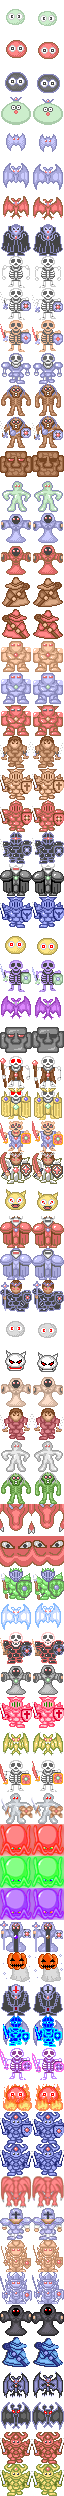
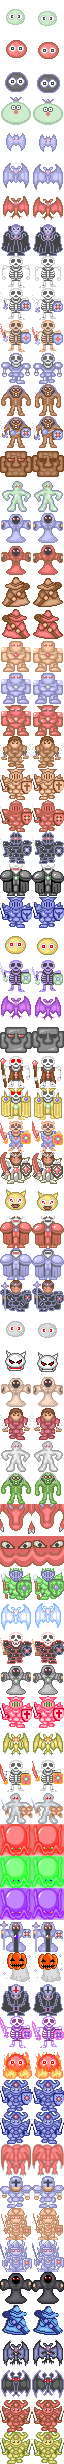
delete E603 because same as E767

diff --git a/project/enemys.js b/project/enemys.js
@@ -64,7 +64,6 @@ var enemys_fcae963b_31c9_42b4_b48c_bb48d09f3f80 =
 	"E553": {"name":"起源施咒者","hp":1500,"atk":550,"def":300,"money":30,"exp":25,"point":0,"special":[2,28]},
 	"E558": {"name":"彷徨幽鬼","hp":700,"atk":180,"def":100,"money":5,"exp":5,"point":0,"special":[2,22],"value":null,"damage":200},
 	"E572": {"name":"鬼奴","hp":800,"atk":300,"def":80,"money":0,"exp":40,"point":0,"special":[]},
-	"E603": {"name":"魔导重铠堡垒","hp":999,"atk":200,"def":500,"money":25,"exp":20,"point":0,"special":[2,8]},
 	"E679": {"name":"追魂","hp":1500,"atk":500,"def":100,"money":0,"exp":60,"point":0,"special":[2]},
 	"E737": {"name":"地狱史莱姆","hp":1000,"atk":999,"def":0,"money":30,"exp":25,"point":0,"special":[17,28]},
 	"E763": {"name":"魔导神磐堡垒","hp":20,"atk":200,"def":735,"money":25,"exp":20,"point":0,"special":[2,3]},

diff --git a/project/icons.js b/project/icons.js
@@ -144,21 +144,20 @@ var icons_4665ee12_3a1f_44a4_bea3_0fccba634dc1 =
 		"E553": 60,
 		"E558": 61,
 		"E572": 62,
-		"E603": 63,
-		"E679": 64,
-		"E737": 65,
-		"E763": 66,
-		"E767": 67,
-		"E861": 68,
-		"E874": 69,
-		"E887": 70,
-		"E888": 71,
-		"E956": 72,
-		"E1078": 73,
-		"E1133": 74,
-		"E1141": 75,
-		"E1167": 76,
-		"E1168": 77
+		"E679": 63,
+		"E737": 64,
+		"E763": 65,
+		"E767": 66,
+		"E861": 67,
+		"E874": 68,
+		"E887": 69,
+		"E888": 70,
+		"E956": 71,
+		"E1078": 72,
+		"E1133": 73,
+		"E1141": 74,
+		"E1167": 75,
+		"E1168": 76
 	},
 	"enemy48": {
 		"angel": 0

diff --git a/project/maps.js b/project/maps.js
@@ -143,7 +143,6 @@ var maps_90f36752_8815_4be8_b32b_d7fad1d0542e =
 	"553": {"cls":"enemys","id":"E553"},
 	"558": {"cls":"enemys","id":"E558"},
 	"572": {"cls":"enemys","id":"E572"},
-	"603": {"cls":"enemys","id":"E603"},
 	"679": {"cls":"enemys","id":"E679"},
 	"737": {"cls":"enemys","id":"E737"},
 	"763": {"cls":"enemys","id":"E763"},
